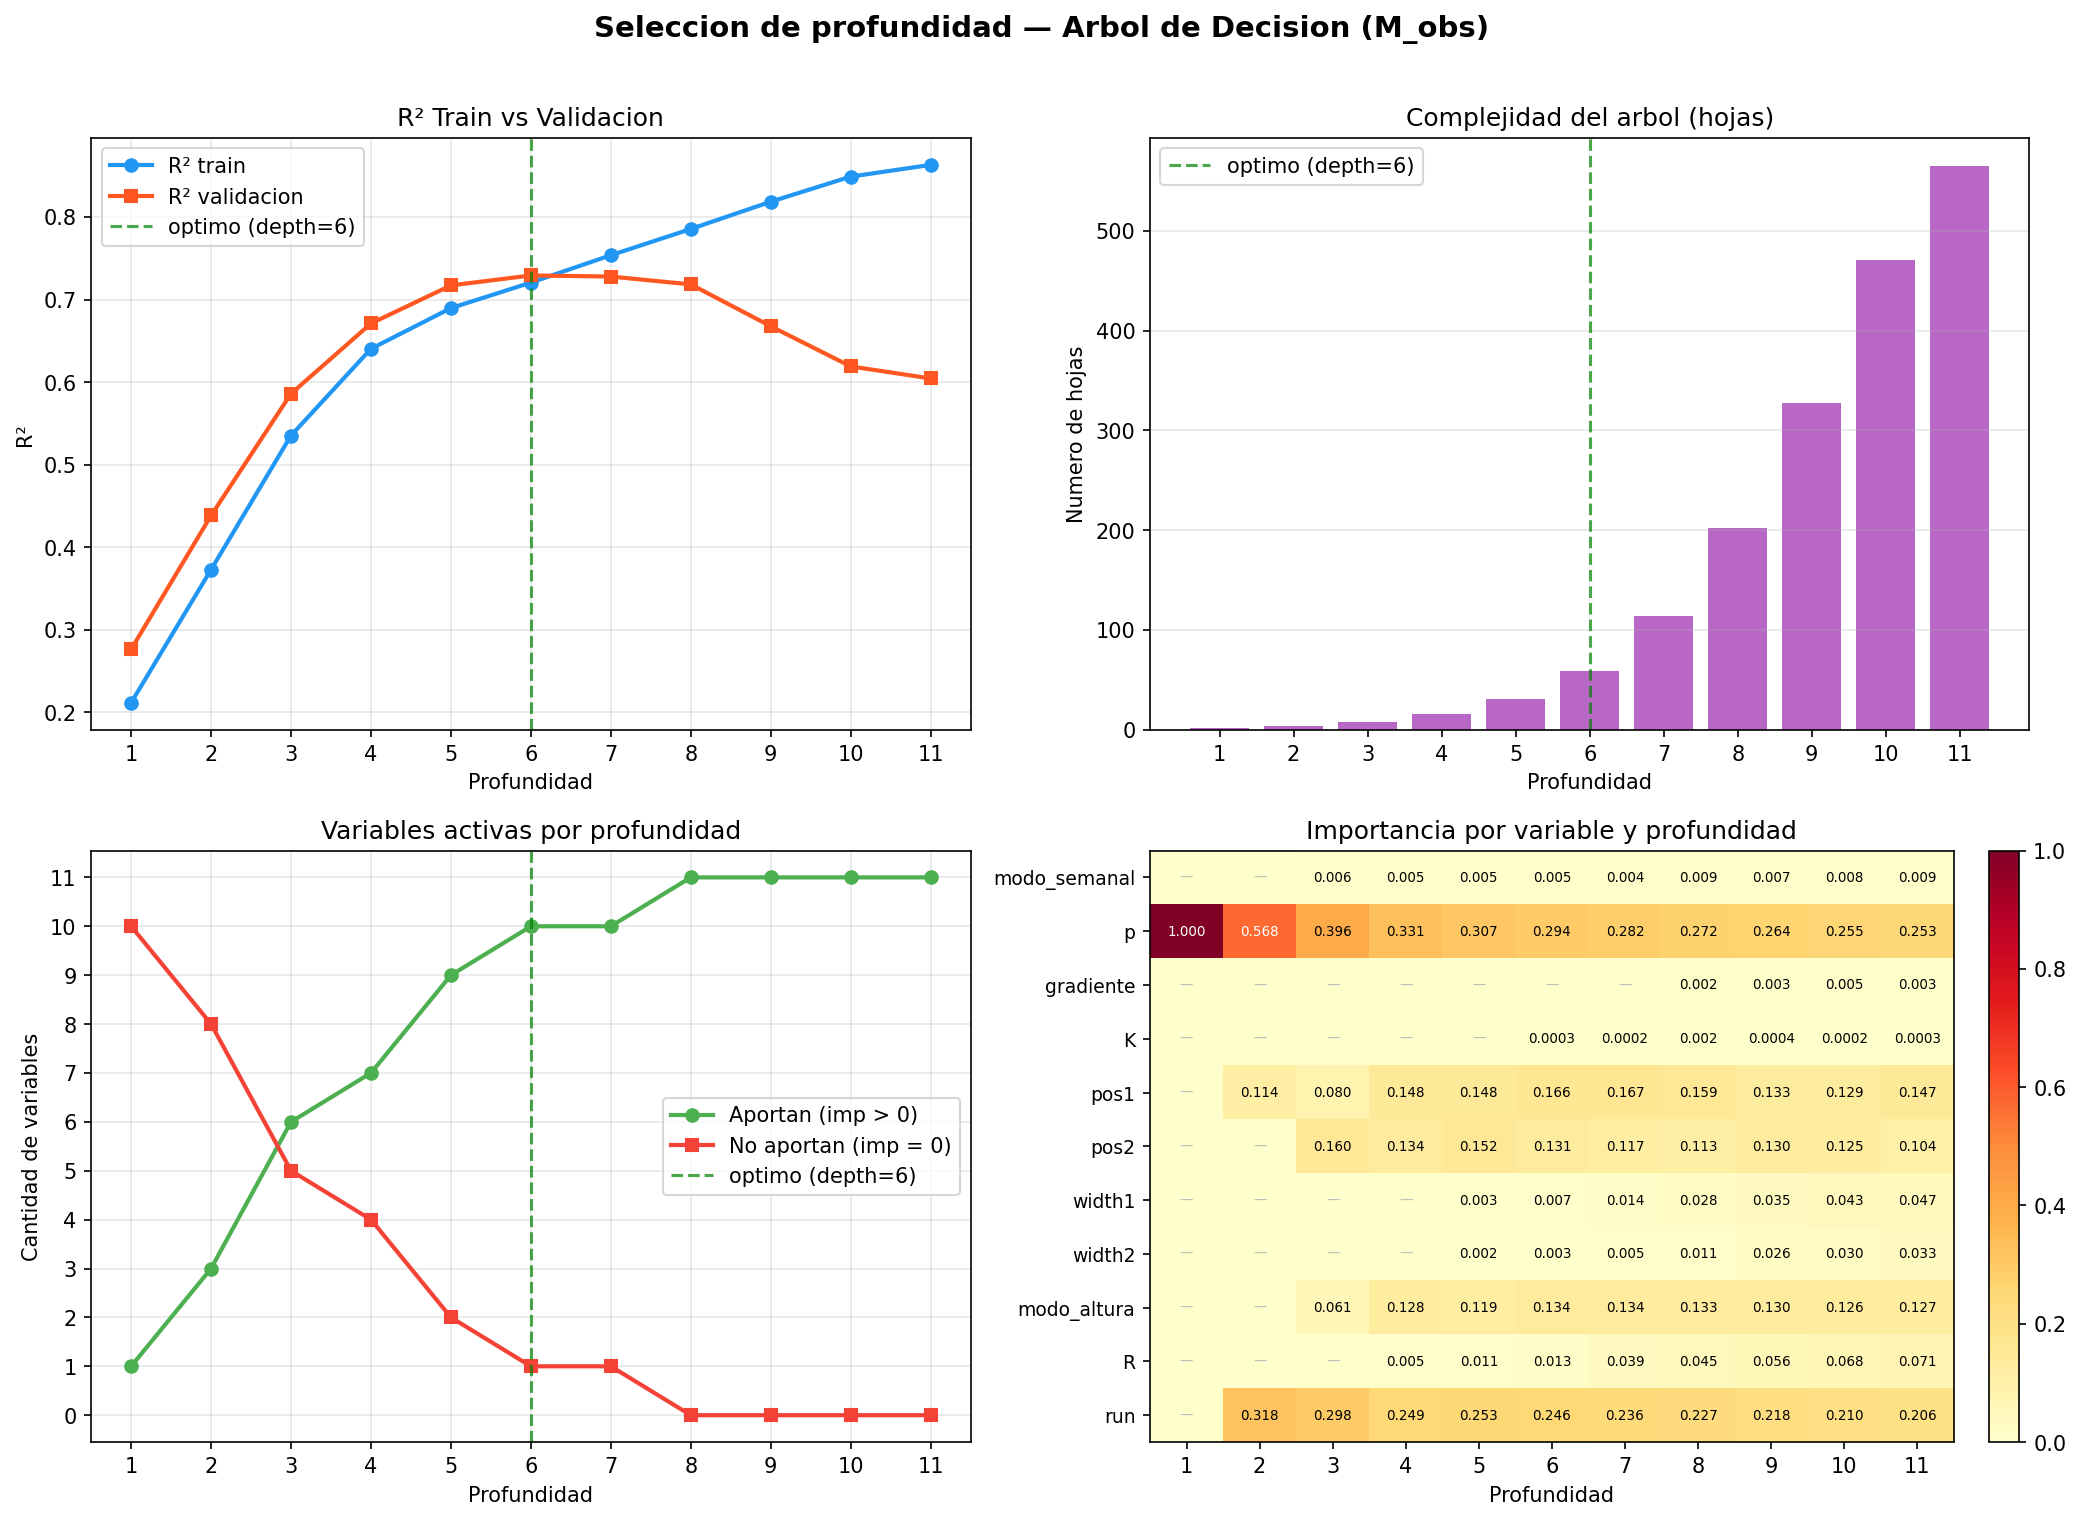
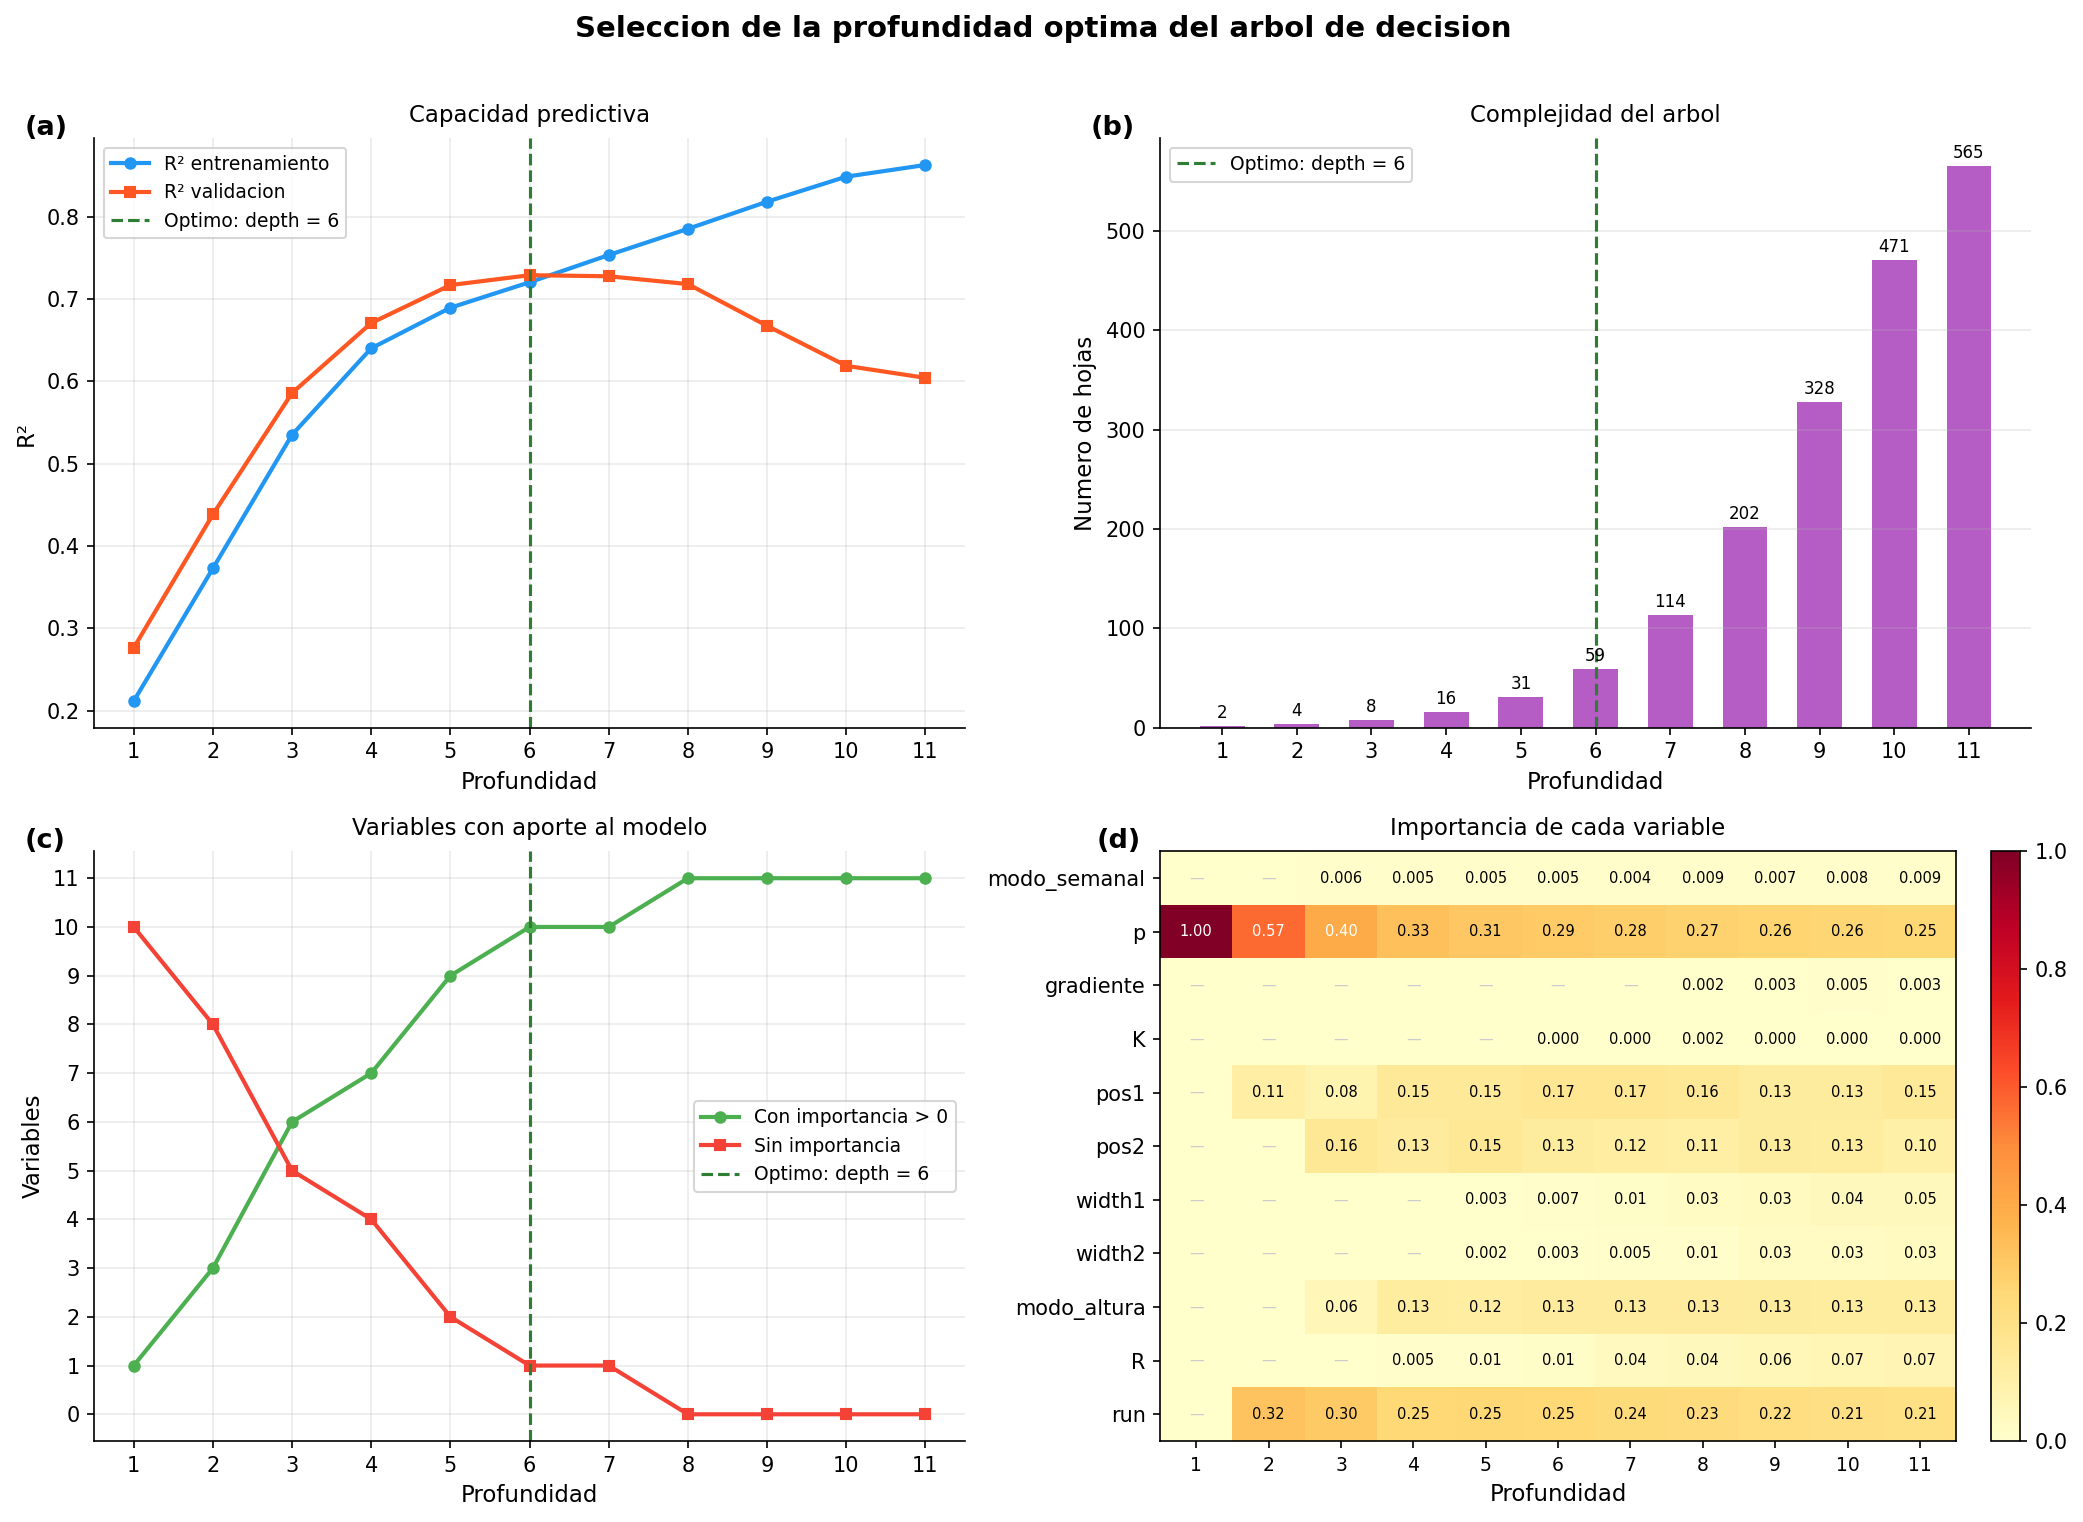
Improve depth selection chart: panel labels (a-d), cleaner titles and layout

diff --git a/src/staffsim/analysis/depth_selection.py b/src/staffsim/analysis/depth_selection.py
@@ -174,56 +174,73 @@ def plot_results(metrics_df: pd.DataFrame,
     depths = metrics_df["depth"].values
     best_depth = metrics_df.loc[metrics_df["r2_val"].idxmax(), "depth"]
 
-    fig, axes = plt.subplots(2, 2, figsize=(14, 10))
-    fig.suptitle("Seleccion de profundidad — Arbol de Decision (M_obs)",
-                 fontsize=14, fontweight="bold", y=1.01)
+    OPT_COLOR  = "#2E7D32"
+    FONT_BASE  = 11
 
-    # --- Panel 1: R² train vs validacion ---
+    fig, axes = plt.subplots(2, 2, figsize=(14, 10))
+    fig.suptitle(
+        "Seleccion de la profundidad optima del arbol de decision",
+        fontsize=14, fontweight="bold", y=1.01,
+    )
+
+    # Etiquetas de subpanel
+    panel_labels = ["(a)", "(b)", "(c)", "(d)"]
+    for ax, lbl in zip(axes.flat, panel_labels):
+        ax.text(-0.08, 1.04, lbl, transform=ax.transAxes,
+                fontsize=13, fontweight="bold", va="top")
+
+    # --- (a) R² train vs validacion ---
     ax = axes[0, 0]
     ax.plot(depths, metrics_df["r2_train"], "o-", color="#2196F3",
-            linewidth=2, label="R² train")
+            linewidth=2, markersize=5, label="R² entrenamiento")
     ax.plot(depths, metrics_df["r2_val"],   "s-", color="#FF5722",
-            linewidth=2, label="R² validacion")
-    ax.axvline(best_depth, color="green", linestyle="--", alpha=0.7,
-               label=f"optimo (depth={best_depth})")
-    ax.set_xlabel("Profundidad")
-    ax.set_ylabel("R²")
-    ax.set_title("R² Train vs Validacion")
-    ax.legend()
-    ax.grid(True, alpha=0.3)
+            linewidth=2, markersize=5, label="R² validacion")
+    ax.axvline(best_depth, color=OPT_COLOR, linestyle="--", linewidth=1.5,
+               label=f"Optimo: depth = {best_depth}")
+    ax.set_xlabel("Profundidad", fontsize=FONT_BASE)
+    ax.set_ylabel("R²", fontsize=FONT_BASE)
+    ax.set_title("Capacidad predictiva", fontsize=FONT_BASE, pad=8)
+    ax.legend(fontsize=9)
+    ax.grid(True, alpha=0.25)
     ax.set_xticks(depths)
+    ax.spines[["top", "right"]].set_visible(False)
 
-    # --- Panel 2: Numero de hojas ---
+    # --- (b) Numero de hojas ---
     ax = axes[0, 1]
-    ax.bar(depths, metrics_df["n_leaves"], color="#9C27B0", alpha=0.7)
-    ax.axvline(best_depth, color="green", linestyle="--", alpha=0.7,
-               label=f"optimo (depth={best_depth})")
-    ax.set_xlabel("Profundidad")
-    ax.set_ylabel("Numero de hojas")
-    ax.set_title("Complejidad del arbol (hojas)")
-    ax.legend()
-    ax.grid(True, alpha=0.3, axis="y")
+    bars = ax.bar(depths, metrics_df["n_leaves"], color="#9C27B0", alpha=0.75, width=0.6)
+    ax.axvline(best_depth, color=OPT_COLOR, linestyle="--", linewidth=1.5,
+               label=f"Optimo: depth = {best_depth}")
+    for bar, val in zip(bars, metrics_df["n_leaves"]):
+        ax.text(bar.get_x() + bar.get_width()/2, bar.get_height() + 4,
+                str(val), ha="center", va="bottom", fontsize=8)
+    ax.set_xlabel("Profundidad", fontsize=FONT_BASE)
+    ax.set_ylabel("Numero de hojas", fontsize=FONT_BASE)
+    ax.set_title("Complejidad del arbol", fontsize=FONT_BASE, pad=8)
+    ax.legend(fontsize=9)
+    ax.grid(True, alpha=0.25, axis="y")
     ax.set_xticks(depths)
+    ax.spines[["top", "right"]].set_visible(False)
 
-    # --- Panel 3: Variables que aportan vs no aportan ---
+    # --- (c) Variables activas ---
     ax = axes[1, 0]
     ax.plot(depths, metrics_df["vars_aportan"],    "o-", color="#4CAF50",
-            linewidth=2, label="Aportan (imp > 0)")
+            linewidth=2, markersize=5, label="Con importancia > 0")
     ax.plot(depths, metrics_df["vars_no_aportan"], "s-", color="#F44336",
-            linewidth=2, label="No aportan (imp = 0)")
-    ax.axvline(best_depth, color="green", linestyle="--", alpha=0.7,
-               label=f"optimo (depth={best_depth})")
-    ax.set_xlabel("Profundidad")
-    ax.set_ylabel("Cantidad de variables")
-    ax.set_title("Variables activas por profundidad")
+            linewidth=2, markersize=5, label="Sin importancia")
+    ax.axvline(best_depth, color=OPT_COLOR, linestyle="--", linewidth=1.5,
+               label=f"Optimo: depth = {best_depth}")
+    ax.set_xlabel("Profundidad", fontsize=FONT_BASE)
+    ax.set_ylabel("Variables", fontsize=FONT_BASE)
+    ax.set_title("Variables con aporte al modelo", fontsize=FONT_BASE, pad=8)
     ax.set_yticks(range(0, len(FEATURE_COLS) + 1))
-    ax.legend()
-    ax.grid(True, alpha=0.3)
+    ax.legend(fontsize=9)
+    ax.grid(True, alpha=0.25)
     ax.set_xticks(depths)
+    ax.spines[["top", "right"]].set_visible(False)
 
-    # --- Panel 4: Heatmap importancia por profundidad ---
+    # --- (d) Heatmap importancia ---
     ax = axes[1, 1]
-    labels  = [FEAT_LABELS[f] for f in FEATURE_COLS]
+    labels = [FEAT_LABELS[f] for f in FEATURE_COLS]
     imp_matrix = importance_df.pivot(
         index="label", columns="depth", values="importancia"
     ).reindex(labels)
@@ -231,25 +248,24 @@ def plot_results(metrics_df: pd.DataFrame,
     im = ax.imshow(imp_matrix.values, aspect="auto", cmap="YlOrRd",
                    vmin=0, vmax=imp_matrix.values.max())
     ax.set_xticks(range(len(depths)))
-    ax.set_xticklabels(depths)
+    ax.set_xticklabels(depths, fontsize=9)
     ax.set_yticks(range(len(labels)))
-    ax.set_yticklabels(labels, fontsize=9)
-    ax.set_xlabel("Profundidad")
-    ax.set_title("Importancia por variable y profundidad")
+    ax.set_yticklabels(labels, fontsize=10)
+    ax.set_xlabel("Profundidad", fontsize=FONT_BASE)
+    ax.set_title("Importancia de cada variable", fontsize=FONT_BASE, pad=8)
     plt.colorbar(im, ax=ax, fraction=0.046, pad=0.04)
 
-    # Anotar valores en el heatmap
     for i in range(len(labels)):
         for j in range(len(depths)):
             val = imp_matrix.values[i, j]
             if val > 0:
-                txt = f"{val:.3f}" if val >= 0.001 else f"{val:.4f}"
+                txt = f"{val:.2f}" if val >= 0.01 else f"{val:.3f}"
                 ax.text(j, i, txt, ha="center", va="center",
-                        fontsize=6.5,
-                        color="white" if val > 0.4 else "black")
+                        fontsize=7,
+                        color="white" if val > 0.35 else "black")
             else:
                 ax.text(j, i, "—", ha="center", va="center",
-                        fontsize=6.5, color="#BBBBBB")
+                        fontsize=7, color="#CCCCCC")
 
     fig.tight_layout()
     out_png = OUT_DIR / "depth_selection.png"
